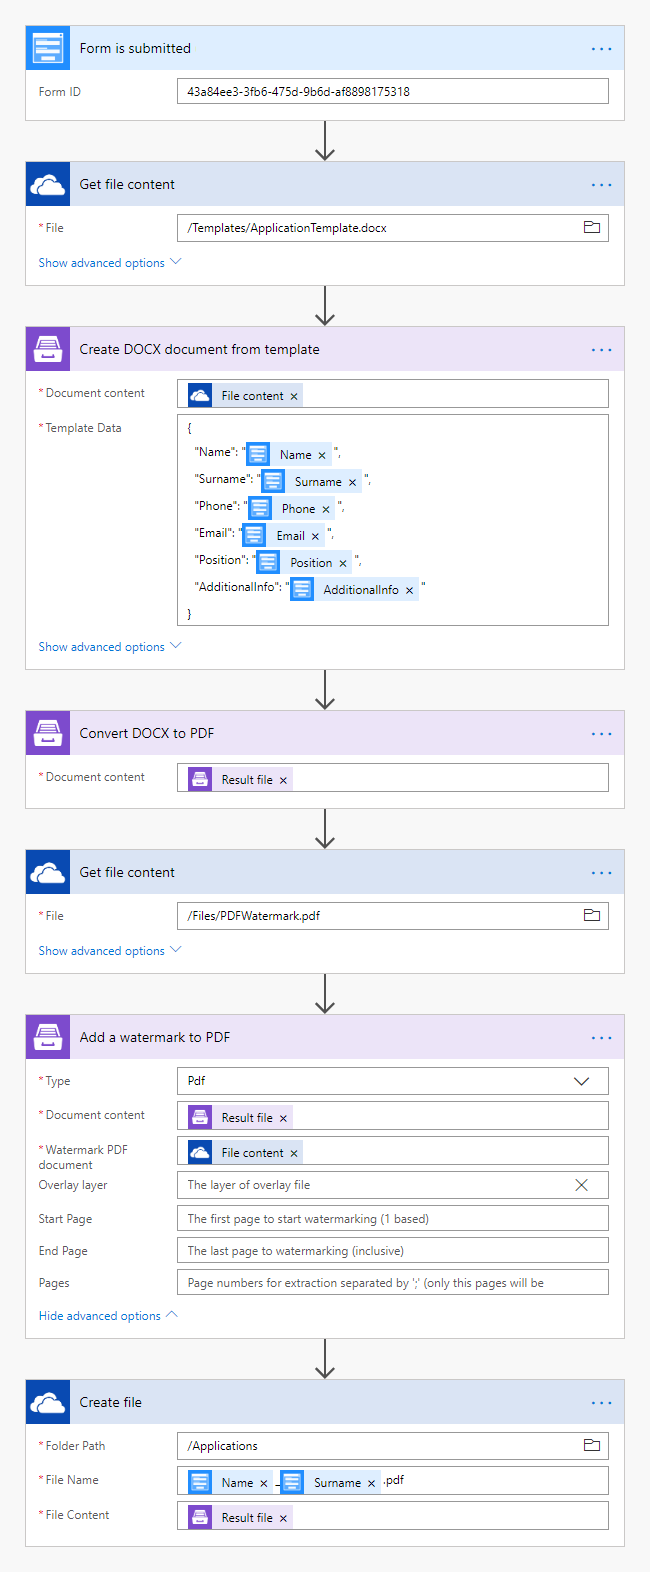
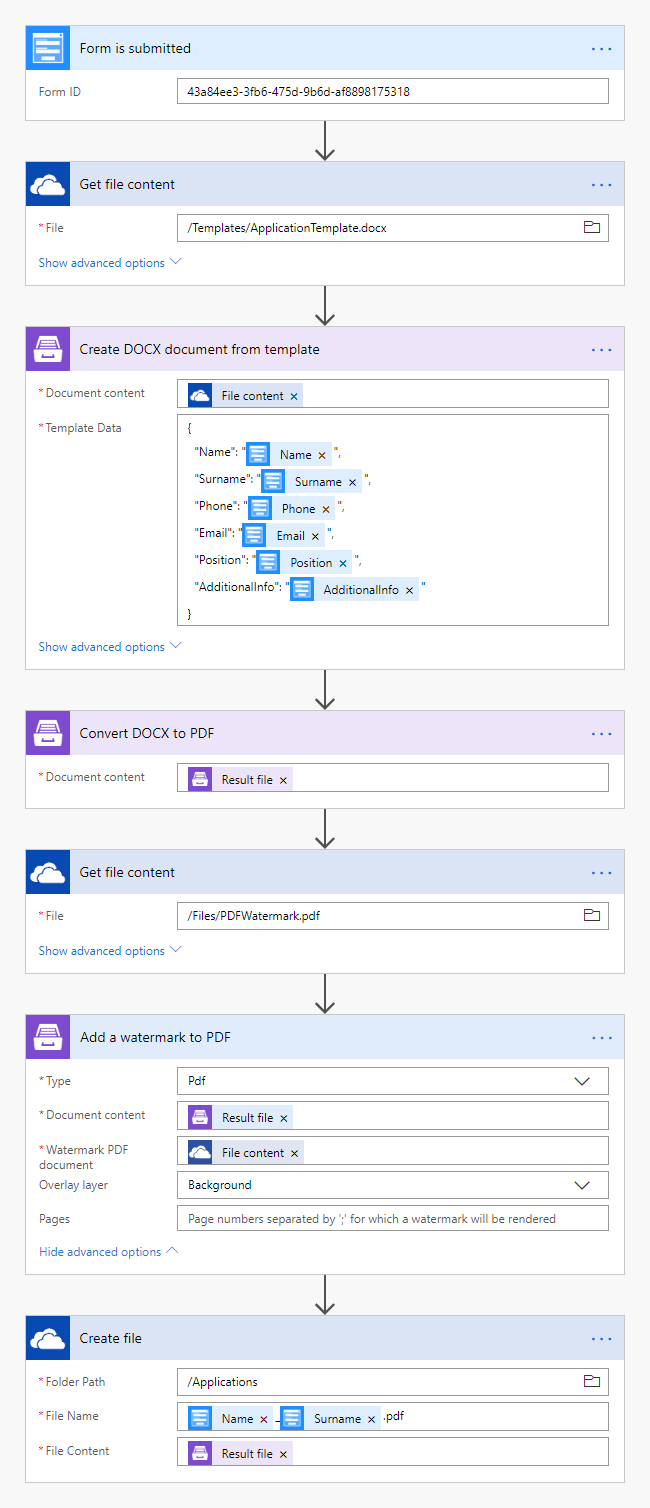
Fixed watermark actions documentations: removed StartPage/EndPage parameters.

Changed region(s): [[0.0308, 0.4052, 0.9846, 0.9973], [0.0308, 0.0, 0.9538, 0.4052]]

diff --git a/source/flow/actions/document-processing.rst b/source/flow/actions/document-processing.rst
@@ -873,17 +873,13 @@ Please, see a detailed example `here <../how-tos/documents/add-an-image-watermar
        -  The degree of transparency of the watermark image. This is a percentage value.
        -  50
 
-    *  -  Start Page
-       -  Index of the first page from which the watermark will be added (indexes start from 1).
-       -  3
-
-    *  -  End Page
-       -  Index of the last page to adding watermark (inclusive). By default will use the last page of the source document.
-       -  7 
-
     *  -  Pages
-       -  The range of target pages delimeted by ';'. If set then "Start Page" and "End Page" will be ignored.
-       -  1;3;5
+       -  The range of target pages delimeted by ';'.
+       -  
+          - 1;3;5
+          - 1-5;7;9
+          - 1-3;9-11;5
+          - 1;3-7;10-20
 
     *  -  Password
        -  The password to decrypt the source document. If it was encrypted earlier.
@@ -1001,17 +997,13 @@ Please, see a detailed example `here <../how-tos/documents/add-a-text-watermark-
        -  The degree of transparency of the watermark image. This is a percentage value.
        -  50
 
-    *  -  Start Page
-       -  Index of the first page from which the watermark will be added (indexes start from 1).
-       -  3
-
-    *  -  End Page
-       -  Index of the last page to adding watermark (inclusive). By default will use the last page of the source document.
-       -  7 
-
     *  -  Pages
-       -  The range of target pages delimeted by ';'. If set then "Start Page" and "End Page" will be ignored.
-       -  1;3;5
+       -  The range of target pages delimeted by ';'.
+       -  
+          - 1;3;5
+          - 1-5;7;9
+          - 1-3;9-11;5
+          - 1;3-7;10-20
 
     *  -  Password
        -  The password to decrypt the source document. If it was encrypted earlier.
@@ -1093,17 +1085,13 @@ Please, see a detailed example `here <../how-tos/documents/add-a-PDF-watermark-t
 
        -  Background
 
-    *  -  Start Page
-       -  Index of the first page from which the watermark will be added (indexes start from 1).
-       -  3
-
-    *  -  End Page
-       -  Index of the last page to adding watermark (inclusive). By default will use the last page of the source document.
-       -  7 
-
     *  -  Pages
-       -  The range of target pages delimeted by ';'. If set then "Start Page" and "End Page" will be ignored.
-       -  1;3;5
+       -  The range of target pages delimeted by ';'.
+       -  
+          - 1;3;5
+          - 1-5;7;9
+          - 1-3;9-11;5
+          - 1;3-7;10-20
 
 .. rubric:: Example
 
